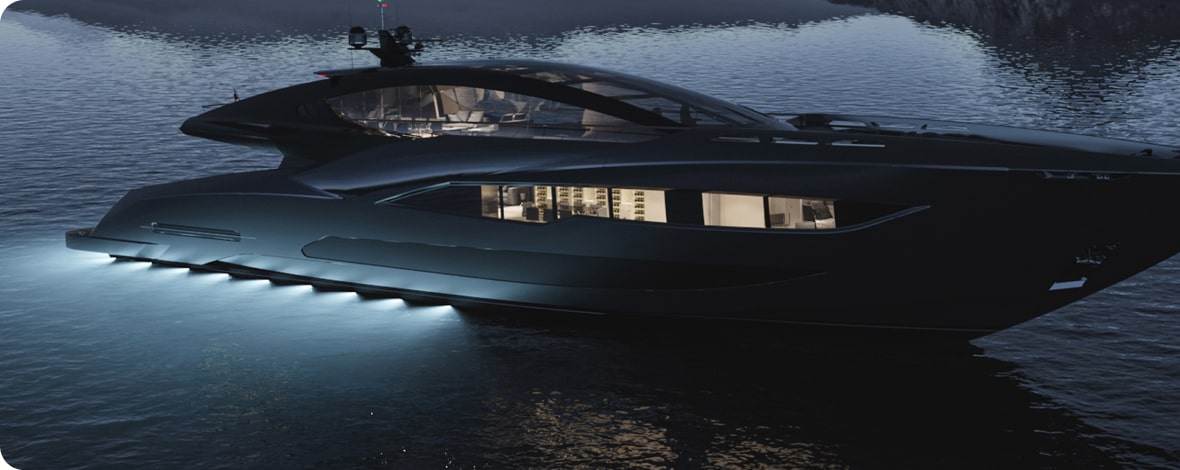
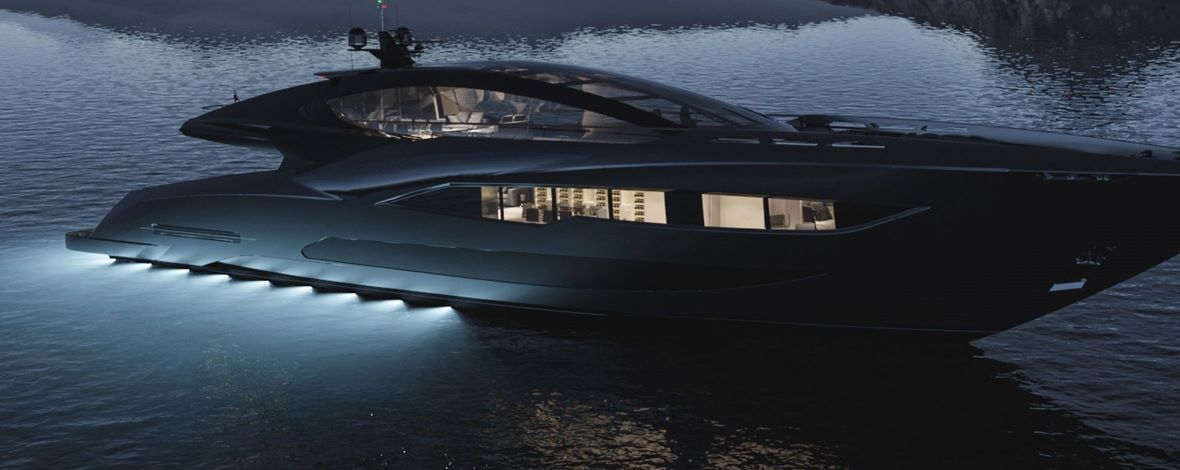
About - rounede corners photos

diff --git a/src/css/about.css b/src/css/about.css
@@ -4,7 +4,7 @@
 
 .about-box {
   /* width: 375px; */
-  border-radius: 24px;
+  border-radius: 24px 24px 0px 0px;
   background-color: #fbfbfb;
   padding: 0;
 }
@@ -45,7 +45,7 @@
 .img-about {
   width: 335px;
   height: 395px;
-  border-radius: 54px;
+  border-radius: 24px 24px 0px 0px;
   margin-top: 40px;
 }
 
@@ -70,11 +70,13 @@
     width: 704px;
     height: 675px;
     padding-bottom: 75px;
+    border-radius: 24px;
   }
 
   .img-about {
     width: 768px;
     height: 470px;
+    border-radius: 24px;
   }
 }
 
@@ -113,7 +115,6 @@
   .img-about {
     width: 1180px;
     height: 470px;
-    border-radius: 54px;
     padding: 0;
     margin: 0;
   }

diff --git a/src/partials/header.html b/src/partials/header.html
@@ -52,7 +52,7 @@
 
   </address>
   </div>
-  <div class="mob-menu is-open">
+  <div class="mob-menu not-is-open">
     <div>
       <div class="menu-mob">
         <a class="logo-mob" target="_blank" href="./index.html">yachtjet</a>
